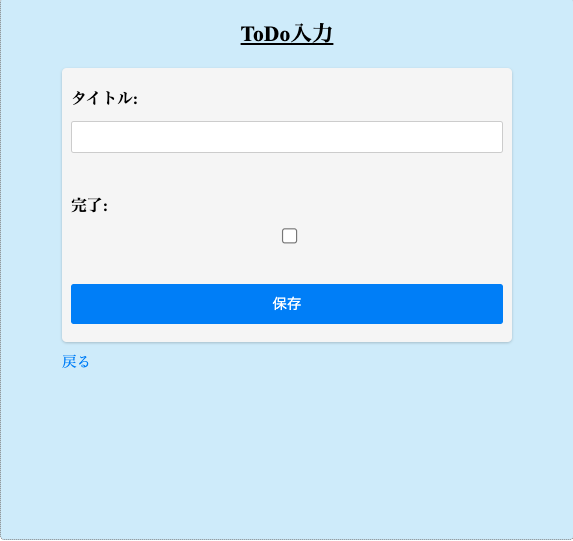
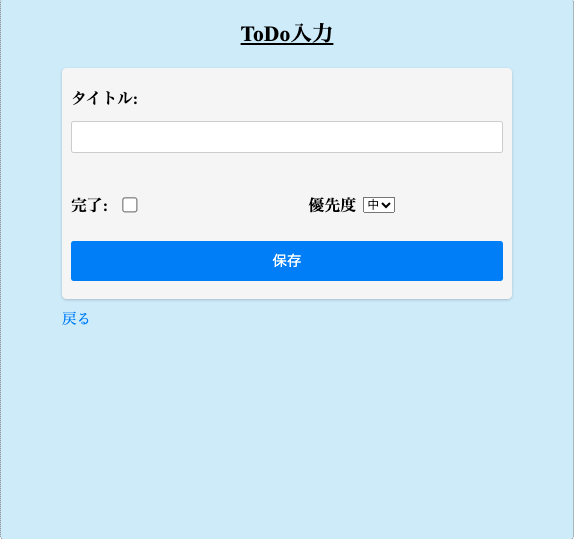
form、list改良

diff --git a/src/main/resources/templates/list.html b/src/main/resources/templates/list.html
@@ -32,15 +32,18 @@
 
         <div class="filter_buttons">
 
-            <a th:href="@{/(status='all', keyword=${keyword})}">
+            <a th:href="@{/(status='all', keyword=${keyword})}"
+                th:classappend="${status == 'all'} ? 'active' : ''">
                 全件
             </a>
 
-            <a th:href="@{/(status='active', keyword=${keyword})}">
+            <a th:href="@{/(status='active', keyword=${keyword})}"
+                th:classappend="${status == 'active'} ? 'active' : ''">
                 未完了
             </a>
 
-            <a th:href="@{/(status='completed', keyword=${keyword})}">
+            <a th:href="@{/(status='completed', keyword=${keyword})}"
+                th:classappend="${status == 'completed'} ? 'active' : ''">
                 完了
             </a>
 
@@ -53,6 +56,18 @@
         <div class="todo_box">
             <ol class="todo_ol">
                 <li class="todo_list" th:each="todo : ${todos}">
+
+                    <span th:if="${todo.priority == 1}">
+                        🔴高
+                    </span>
+
+                    <span th:if="${todo.priority == 2}">
+                        🟡中
+                    </span>
+
+                    <span th:if="${todo.priority == 3}">
+                        🔵低
+                    </span>
                     <div class="todo_time_box">
                         <div class="todo_time">
                             作成: <span th:text="${#temporals.format(todo.createdAt, 'yyyy/MM/dd HH:mm')}"></span>

diff --git a/src/main/resources/templates/form.html b/src/main/resources/templates/form.html
@@ -19,10 +19,27 @@
 
             </div>
             <br/>
-            <label>完了: </label>
-            <input type="checkbox" th:field="*{completed}"/>
-            <br/>
+            <div class="form_row">
+
+                <div class="completed_area">
+                    <label>完了: </label>
+                    <input type="checkbox" id="completed" th:field="*{completed}"/>
+                </div>
+
+                <div class="priority_area">
+                    <label>優先度</label>
+
+                    <select id="priority" th:field="*{priority}">
+                        <option value="1">高</option>
+                        <option value="2">中</option>
+                        <option value="3">低</option>
+                    </select>
+                </div>
+
+            </div>
+
             <button type="submit">保存</button>
+
         </form>
         <a class="back" th:href="@{/}">戻る</a>
     </section>

diff --git a/src/main/resources/static/css/style.css b/src/main/resources/static/css/style.css
@@ -80,6 +80,31 @@ h1 {
     text-decoration: underline;
 }
 
+.form_row {
+    display: flex;
+    justify-content: space-between;
+    align-item: center;
+
+    margin-bottom: 15px;
+}
+
+.completed_area {
+    display: flex;
+    align-items: center;
+    gap: 8px;
+}
+
+.priority_area {
+    display: flex;
+    align-items: center;
+    gap: 8px;
+}
+
+.completed_area,
+.priority_area {
+    width: 45%;
+}
+
 /* list.html */
 #wrapper {
     /* opacity: 0; */
@@ -334,3 +359,9 @@ p[th\:if] {
 .filter_buttons a:hover {
     background-color: #bbb;
 }
+
+.filter_buttons a.active {
+    background-color: #198754;
+    color: white;
+}
+

diff --git a/src/main/java/com/example/todo/controller/TodoController.java b/src/main/java/com/example/todo/controller/TodoController.java
@@ -53,7 +53,7 @@ public class TodoController {
                 if (hasKeyword) {
 
                     todos = todoRepository
-                            .findByUserAndTitleContainingAndCompletedOrderByUpdatedAtDesc(
+                            .findByUserAndTitleContainingAndCompletedOrderByPriorityAscCreatedAtAsc(
                                     user,
                                     keyword,
                                     true);
@@ -71,7 +71,7 @@ public class TodoController {
                 if (hasKeyword) {
 
                     todos = todoRepository
-                            .findByUserAndTitleContainingAndCompletedOrderByUpdatedAtDesc(
+                            .findByUserAndTitleContainingAndCompletedOrderByPriorityAscCreatedAtAsc(
                                     user,
                                     keyword,
                                     false);
@@ -79,7 +79,7 @@ public class TodoController {
                 } else {
 
                     todos = todoRepository
-                            .findByUserAndCompletedOrderByUpdatedAtDesc(user, false);
+                            .findByUserAndCompletedOrderByPriorityAscCreatedAtAsc(user, false);
                 }
 
                 break;
@@ -90,14 +90,14 @@ public class TodoController {
                 if (hasKeyword) {
 
                     todos = todoRepository
-                            .findByUserAndTitleContainingOrderByUpdatedAtDesc(
+                            .findByUserAndTitleContainingOrderByPriorityAscCreatedAtAsc(
                                     user,
                                     keyword);
 
                 } else {
 
                     todos = todoRepository
-                            .findByUserOrderByUpdatedAtDesc(user);
+                            .findByUserOrderByPriorityAscCreatedAtAsc(user);
                 }
         }
 

diff --git a/src/main/java/com/example/todo/repository/TodoRepository.java b/src/main/java/com/example/todo/repository/TodoRepository.java
@@ -24,7 +24,7 @@ public interface TodoRepository extends JpaRepository<Todo, Long> {
             boolean completed
     );
 
-    List<Todo> findByUserOrderByUpdatedAtDesc(User user);
+    List<Todo> findByUserOrderByUpdatedAtAsc(User user);
 
     List<Todo> findByUserAndCompletedOrderByUpdatedAtDesc(
             User user,
@@ -37,6 +37,24 @@ public interface TodoRepository extends JpaRepository<Todo, Long> {
     );
 
     List<Todo> findByUserAndTitleContainingAndCompletedOrderByUpdatedAtDesc(
+            User user,
+            String keyword,
+            boolean completed
+    );
+
+    List<Todo> findByUserOrderByPriorityAscCreatedAtAsc(User user);
+
+    List<Todo> findByUserAndCompletedOrderByPriorityAscCreatedAtAsc(
+            User user,
+            boolean completed
+    );
+
+    List<Todo> findByUserAndTitleContainingOrderByPriorityAscCreatedAtAsc(
+            User user,
+            String keyword
+    );
+
+    List<Todo> findByUserAndTitleContainingAndCompletedOrderByPriorityAscCreatedAtAsc(
             User user,
             String keyword,
             boolean completed

diff --git a/src/main/java/com/example/todo/entity/Todo.java b/src/main/java/com/example/todo/entity/Todo.java
@@ -51,6 +51,10 @@ public class Todo {
         updatedAt = LocalDateTime.now();
     }
 
+    //
+    @Column(nullable = false)
+    private Integer priority = 2;
+
     //getter, setter
     public Long getId() {
         return id;
@@ -98,5 +102,13 @@ public class Todo {
 
     public void setUpdatedAt(LocalDateTime updatedAt) {
         this.updatedAt = updatedAt;
+    }
+
+    public Integer getPriority() {
+        return priority;
+    }
+
+    public void setPriority(Integer priority) {
+        this.priority = priority;
     }
 }
